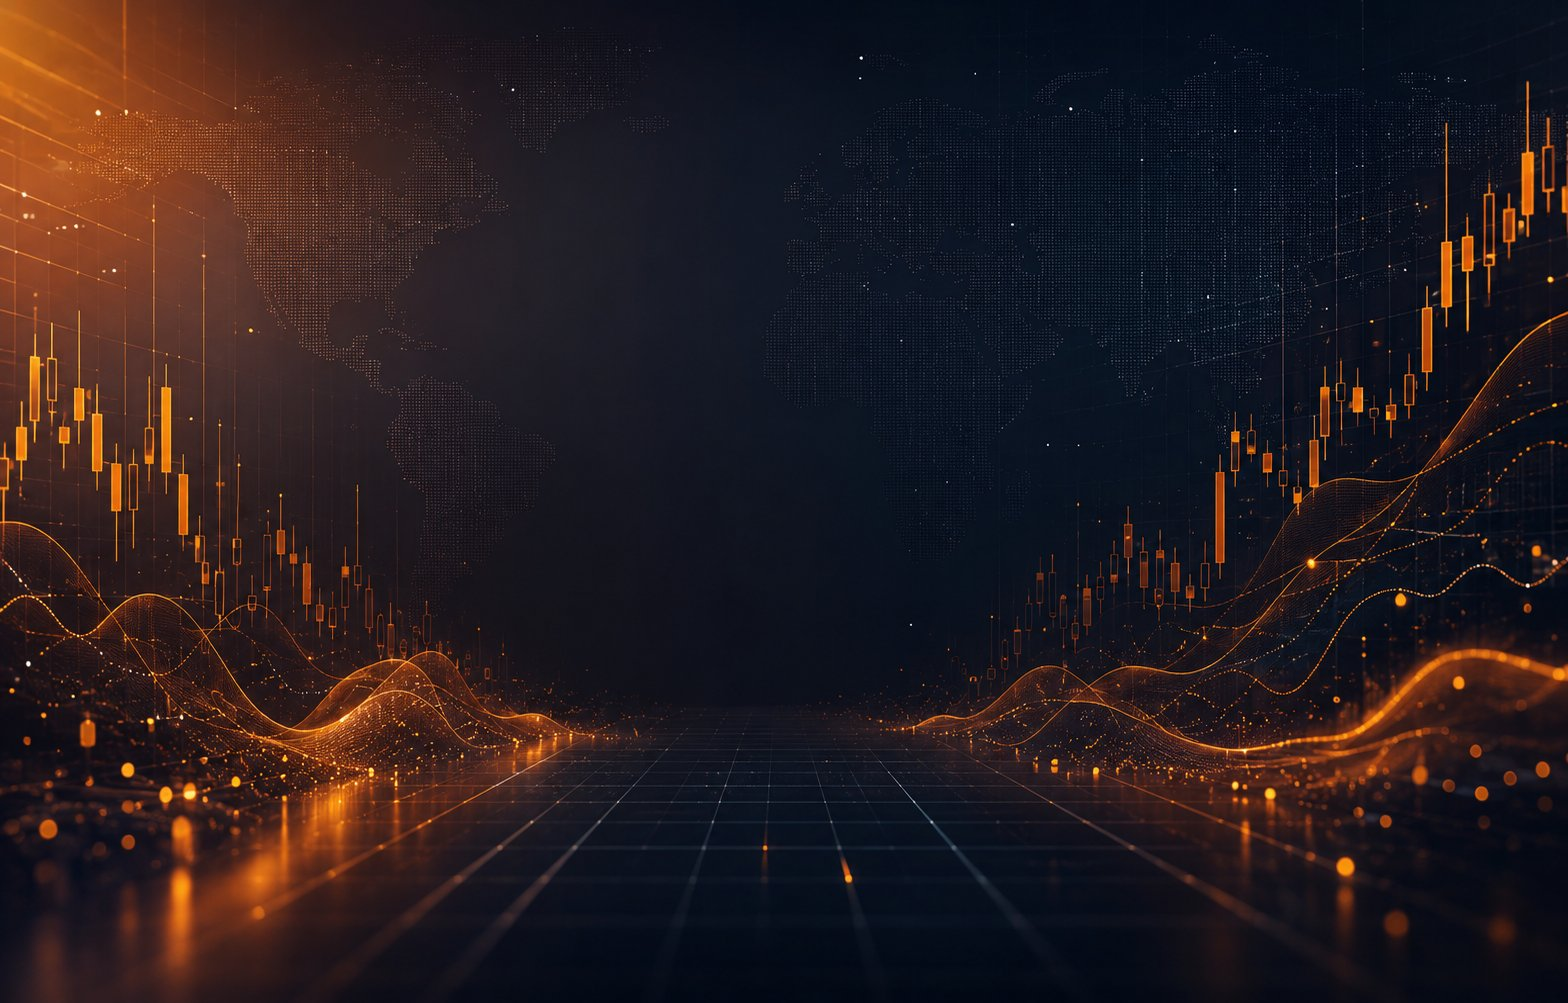
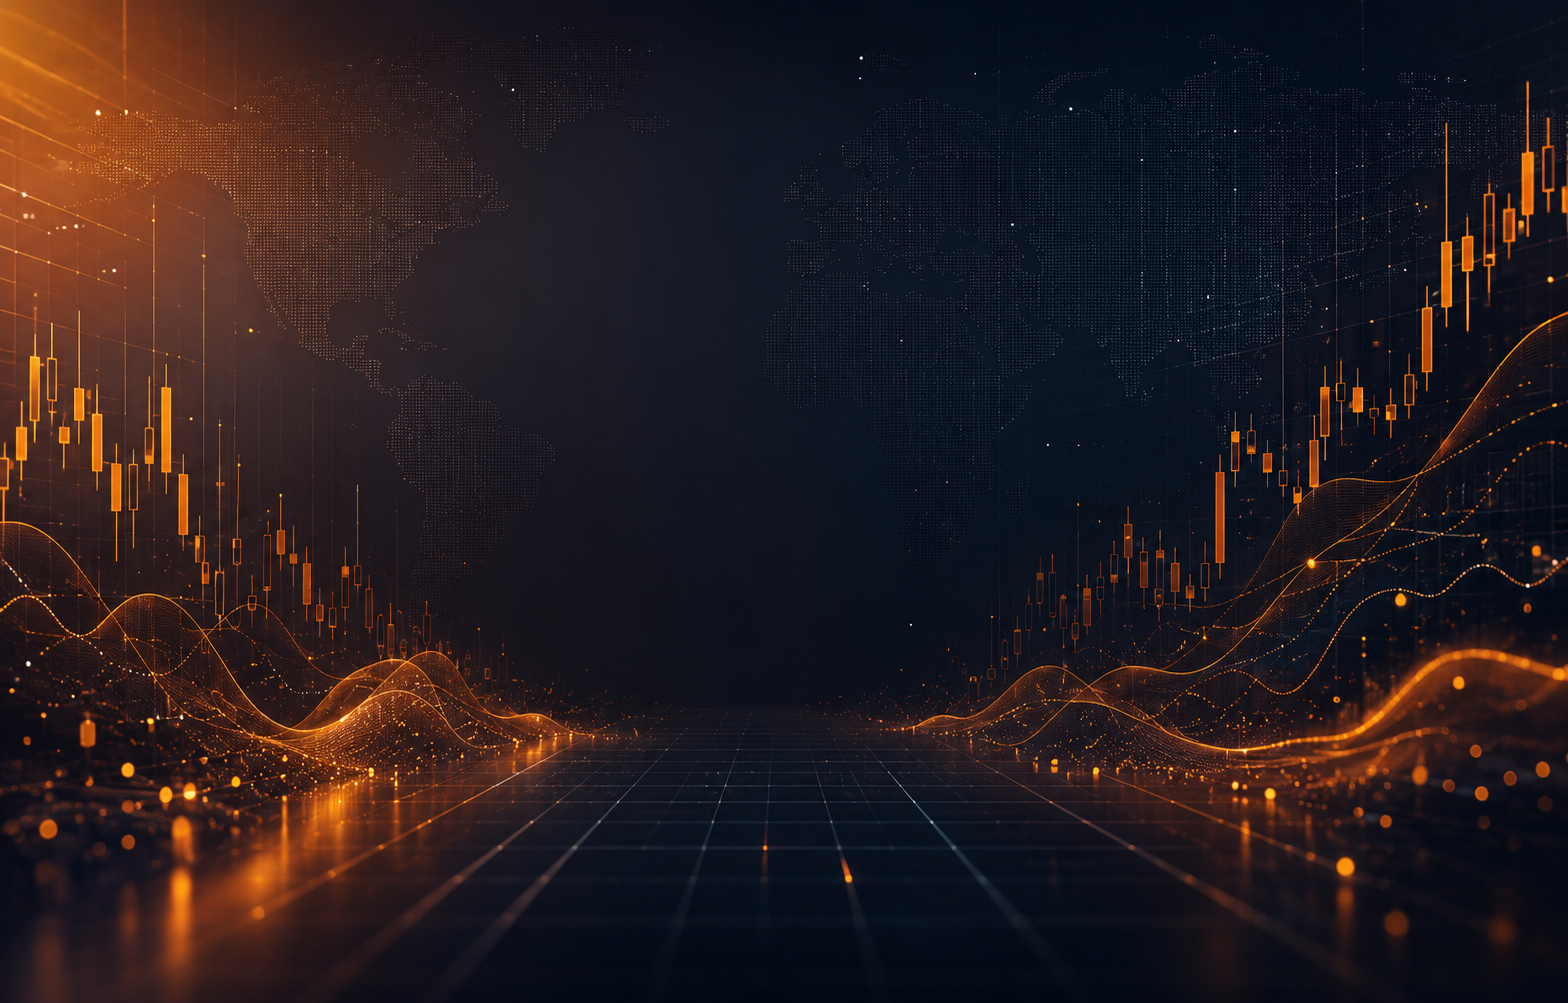
feat: branding navbar + hero bg

diff --git a/app/terminal/page.tsx b/app/terminal/page.tsx
@@ -11,9 +11,9 @@ const MODULES = [
     desc: 'CPI · NFP · FOMC · ECB · GDP · PMI · Actualités macro en temps réel',
     detail: 'Countdown live, impact ★★★, news feed institutionnel, scénarios bull/bear',
     color: '#ef4444',
-    glow: 'rgba(239,68,68,.2)',
-    border: 'rgba(239,68,68,.25)',
-    bg: 'rgba(239,68,68,.05)',
+    glow: 'rgba(239,68,68,.25)',
+    border: 'rgba(239,68,68,.3)',
+    bg: 'rgba(239,68,68,.07)',
     stats: [
       { label: 'This week', value: '12 events' },
       { label: 'HIGH impact', value: '6' },
@@ -28,9 +28,9 @@ const MODULES = [
     desc: 'Futures de taux · Courbe forward · OIS · Probabilités de hike/cut',
     detail: 'Pricing du marché sur les prochaines réunions, courbe des taux implicites',
     color: '#38bdf8',
-    glow: 'rgba(56,189,248,.2)',
-    border: 'rgba(56,189,248,.25)',
-    bg: 'rgba(56,189,248,.05)',
+    glow: 'rgba(56,189,248,.25)',
+    border: 'rgba(56,189,248,.3)',
+    bg: 'rgba(56,189,248,.07)',
     stats: [
       { label: 'Fed Jun', value: 'Hold 92%' },
       { label: 'BCE Jul', value: '-25bp 68%' },
@@ -45,9 +45,9 @@ const MODULES = [
     desc: 'Saisonnalité historique · Sentiment retail · COT · Biais directionnel',
     detail: 'Patterns 5/10/20 ans, positionnement retail vs institutionnel, biais mensuel',
     color: '#a855f7',
-    glow: 'rgba(168,85,247,.2)',
-    border: 'rgba(168,85,247,.25)',
-    bg: 'rgba(168,85,247,.05)',
+    glow: 'rgba(168,85,247,.25)',
+    border: 'rgba(168,85,247,.3)',
+    bg: 'rgba(168,85,247,.07)',
     stats: [
       { label: 'EUR/USD', value: '+63% haussier' },
       { label: 'Retail', value: '66% long' },
@@ -65,75 +65,161 @@ function DashboardHome({ onEnter }: { onEnter: (tab: TabId) => void }) {
       background: '#080b10',
       display: 'flex',
       flexDirection: 'column',
-      alignItems: 'center',
-      justifyContent: 'center',
       fontFamily: "'Inter', -apple-system, sans-serif",
-      padding: '40px 24px',
       position: 'relative',
       overflow: 'hidden',
     }}>
-      <div style={{ position:'absolute', width:600, height:600, borderRadius:'50%', background:'rgba(240,180,41,.03)', filter:'blur(120px)', top:'30%', left:'50%', transform:'translate(-50%,-50%)', pointerEvents:'none' }} />
-      <div style={{ position:'absolute', width:400, height:400, borderRadius:'50%', background:'rgba(239,68,68,.02)', filter:'blur(100px)', bottom:'10%', right:'10%', pointerEvents:'none' }} />
-      <div style={{ position:'absolute', width:300, height:300, borderRadius:'50%', background:'rgba(168,85,247,.02)', filter:'blur(80px)', bottom:'20%', left:'5%', pointerEvents:'none' }} />
+      {/* Image de fond */}
+      <div style={{
+        position: 'absolute',
+        inset: 0,
+        backgroundImage: 'url(/hero-bg.png)',
+        backgroundSize: 'cover',
+        backgroundPosition: 'center',
+        opacity: 0.35,
+        zIndex: 0,
+      }} />
+      {/* Overlay gradient */}
+      <div style={{
+        position: 'absolute',
+        inset: 0,
+        background: 'linear-gradient(to bottom, rgba(8,11,16,.7) 0%, rgba(8,11,16,.4) 40%, rgba(8,11,16,.85) 100%)',
+        zIndex: 1,
+      }} />
 
-      <div style={{ textAlign:'center', marginBottom:56, position:'relative', zIndex:1 }}>
-        <div style={{ display:'inline-flex', alignItems:'center', gap:12, marginBottom:20 }}>
-          <div style={{ width:44, height:44, background:'linear-gradient(135deg,#f0b429,#d4780a)', borderRadius:10, display:'flex', alignItems:'center', justifyContent:'center', fontSize:20, fontWeight:800, color:'#000', boxShadow:'0 4px 24px rgba(240,180,41,.35)' }}>N</div>
-          <span style={{ fontSize:26, fontWeight:800, letterSpacing:'-0.8px', color:'#f0f4f8' }}>Nexterm</span>
+      {/* NAVBAR */}
+      <nav style={{
+        position: 'relative',
+        zIndex: 10,
+        display: 'flex',
+        alignItems: 'center',
+        justifyContent: 'space-between',
+        padding: '18px 32px',
+        borderBottom: '0.5px solid rgba(255,255,255,.08)',
+        backdropFilter: 'blur(12px)',
+        background: 'rgba(8,11,16,.5)',
+      }}>
+        {/* Logo / Home */}
+        <div style={{ display:'flex', alignItems:'center', gap:10, cursor:'pointer' }}>
+          <div style={{ width:36, height:36, background:'linear-gradient(135deg,#f0b429,#d4780a)', borderRadius:8, display:'flex', alignItems:'center', justifyContent:'center', fontSize:16, fontWeight:800, color:'#000', boxShadow:'0 4px 16px rgba(240,180,41,.4)' }}>N</div>
+          <span style={{ fontSize:18, fontWeight:800, letterSpacing:'-0.5px', color:'#f0f4f8' }}>Nexterm</span>
+          <span style={{ fontSize:10, color:'#3d5060', marginLeft:4, letterSpacing:'0.5px' }}>INSTITUTIONAL FX</span>
         </div>
-        <p style={{ fontSize:13, color:'#4a5e72', letterSpacing:'0.3px' }}>Institutional FX Terminal — Select a module to continue</p>
-      </div>
 
-      <div style={{ display:'grid', gridTemplateColumns:'repeat(3,1fr)', gap:20, maxWidth:960, width:'100%', position:'relative', zIndex:1 }}>
-        {MODULES.map(m => {
-          const isHovered = hovered === m.id
-          return (
-            <div
-              key={m.id}
-              onClick={() => onEnter(m.id)}
-              onMouseEnter={() => setHovered(m.id)}
-              onMouseLeave={() => setHovered(null)}
-              style={{
-                padding: '28px 24px',
-                borderRadius: 14,
-                background: isHovered ? m.bg : 'rgba(255,255,255,.03)',
-                border: `1px solid ${isHovered ? m.border : 'rgba(255,255,255,.07)'}`,
-                cursor: 'pointer',
-                transition: 'all 200ms ease',
-                transform: isHovered ? 'translateY(-4px)' : 'none',
-                boxShadow: isHovered ? `0 12px 40px ${m.glow}` : '0 2px 12px rgba(0,0,0,.3)',
-                display: 'flex',
-                flexDirection: 'column',
-                gap: 0,
-              }}
-            >
-              <div style={{ display:'flex', alignItems:'flex-start', justifyContent:'space-between', marginBottom:16 }}>
-                <div style={{ fontSize:32, lineHeight:1 }}>{m.icon}</div>
-                <div style={{ width:8, height:8, borderRadius:'50%', background:m.color, boxShadow:`0 0 8px ${m.color}` }} />
+        {/* Bouton connexion */}
+        <div style={{ display:'flex', alignItems:'center', gap:12 }}>
+          <button style={{
+            padding: '8px 18px',
+            borderRadius: 7,
+            fontSize: 12,
+            fontWeight: 600,
+            color: '#c8d6e5',
+            background: 'transparent',
+            border: '0.5px solid rgba(255,255,255,.15)',
+            cursor: 'pointer',
+            letterSpacing: '0.2px',
+            transition: 'all 150ms',
+          }}
+            onMouseEnter={e => { e.currentTarget.style.background='rgba(255,255,255,.07)'; e.currentTarget.style.borderColor='rgba(255,255,255,.25)' }}
+            onMouseLeave={e => { e.currentTarget.style.background='transparent'; e.currentTarget.style.borderColor='rgba(255,255,255,.15)' }}
+          >
+            Se connecter
+          </button>
+          <button style={{
+            padding: '8px 18px',
+            borderRadius: 7,
+            fontSize: 12,
+            fontWeight: 700,
+            color: '#000',
+            background: 'linear-gradient(135deg,#f0b429,#d4780a)',
+            border: 'none',
+            cursor: 'pointer',
+            letterSpacing: '0.2px',
+            boxShadow: '0 4px 16px rgba(240,180,41,.35)',
+            transition: 'all 150ms',
+          }}
+            onMouseEnter={e => { e.currentTarget.style.opacity='0.9' }}
+            onMouseLeave={e => { e.currentTarget.style.opacity='1' }}
+          >
+            Commencer
+          </button>
+        </div>
+      </nav>
+
+      {/* CONTENU PRINCIPAL */}
+      <div style={{
+        flex: 1,
+        display: 'flex',
+        flexDirection: 'column',
+        alignItems: 'center',
+        justifyContent: 'center',
+        padding: '40px 24px',
+        position: 'relative',
+        zIndex: 2,
+      }}>
+        {/* Tagline */}
+        <div style={{ textAlign:'center', marginBottom:52 }}>
+          <p style={{ fontSize:12, color:'#f0b429', fontWeight:600, letterSpacing:'2px', textTransform:'uppercase', marginBottom:14 }}>Institutional FX Terminal</p>
+          <h1 style={{ fontSize:38, fontWeight:800, color:'#f0f4f8', letterSpacing:'-1px', lineHeight:1.15, marginBottom:12 }}>
+            Analyse macro de niveau<br />institutionnel
+          </h1>
+          <p style={{ fontSize:14, color:'#4a5e72', maxWidth:420, margin:'0 auto' }}>
+            Calendrier, taux futurs, saisonnalité — tout ce qu'un trader institutionnel surveille, en un seul endroit.
+          </p>
+        </div>
+
+        {/* 3 cartes */}
+        <div style={{ display:'grid', gridTemplateColumns:'repeat(3,1fr)', gap:20, maxWidth:960, width:'100%' }}>
+          {MODULES.map(m => {
+            const isHovered = hovered === m.id
+            return (
+              <div
+                key={m.id}
+                onClick={() => onEnter(m.id)}
+                onMouseEnter={() => setHovered(m.id)}
+                onMouseLeave={() => setHovered(null)}
+                style={{
+                  padding: '28px 24px',
+                  borderRadius: 14,
+                  background: isHovered ? m.bg : 'rgba(8,11,16,.6)',
+                  border: `1px solid ${isHovered ? m.border : 'rgba(255,255,255,.09)'}`,
+                  backdropFilter: 'blur(16px)',
+                  cursor: 'pointer',
+                  transition: 'all 200ms ease',
+                  transform: isHovered ? 'translateY(-4px)' : 'none',
+                  boxShadow: isHovered ? `0 12px 40px ${m.glow}` : '0 2px 12px rgba(0,0,0,.4)',
+                  display: 'flex',
+                  flexDirection: 'column',
+                }}
+              >
+                <div style={{ display:'flex', alignItems:'flex-start', justifyContent:'space-between', marginBottom:16 }}>
+                  <div style={{ fontSize:32, lineHeight:1 }}>{m.icon}</div>
+                  <div style={{ width:8, height:8, borderRadius:'50%', background:m.color, boxShadow:`0 0 8px ${m.color}` }} />
+                </div>
+
+                <div style={{ fontSize:17, fontWeight:700, color:'#f0f4f8', letterSpacing:'-0.3px', marginBottom:4 }}>{m.title}</div>
+                <div style={{ fontSize:11, color:m.color, fontWeight:600, marginBottom:12 }}>{m.subtitle}</div>
+                <div style={{ fontSize:11, color:'#5a7080', marginBottom:16, lineHeight:1.6 }}>{m.desc}</div>
+
+                <div style={{ display:'grid', gridTemplateColumns:'1fr 1fr 1fr', gap:8, marginBottom:20 }}>
+                  {m.stats.map(s => (
+                    <div key={s.label} style={{ padding:'8px 6px', borderRadius:6, background:'rgba(255,255,255,.04)', border:'0.5px solid rgba(255,255,255,.07)', textAlign:'center' }}>
+                      <div style={{ fontSize:8, color:'#3d5060', letterSpacing:'0.4px', marginBottom:3, textTransform:'uppercase' }}>{s.label}</div>
+                      <div style={{ fontSize:11, fontWeight:700, color:'#c8d6e5', fontFamily:'IBM Plex Mono, monospace' }}>{s.value}</div>
+                    </div>
+                  ))}
+                </div>
+
+                <div style={{ fontSize:10, color:'#3d5060', lineHeight:1.5, marginBottom:20, minHeight:32 }}>{m.detail}</div>
+
+                <div style={{ display:'flex', alignItems:'center', justifyContent:'space-between', paddingTop:16, borderTop:`0.5px solid ${isHovered ? m.border : 'rgba(255,255,255,.06)'}`, marginTop:'auto' }}>
+                  <span style={{ fontSize:11, fontWeight:600, color:isHovered ? m.color : '#5a7080', transition:'color 200ms' }}>Open module</span>
+                  <span style={{ fontSize:14, color:isHovered ? m.color : '#3d5060', transition:'all 200ms', transform: isHovered ? 'translateX(4px)' : 'none' }}>→</span>
+                </div>
               </div>
-
-              <div style={{ fontSize:17, fontWeight:700, color:'#f0f4f8', letterSpacing:'-0.3px', marginBottom:4 }}>{m.title}</div>
-              <div style={{ fontSize:11, color:m.color, fontWeight:600, marginBottom:12, letterSpacing:'0.2px' }}>{m.subtitle}</div>
-              <div style={{ fontSize:11, color:'#5a7080', marginBottom:16, lineHeight:1.6 }}>{m.desc}</div>
-
-              <div style={{ display:'grid', gridTemplateColumns:'1fr 1fr 1fr', gap:8, marginBottom:20 }}>
-                {m.stats.map(s => (
-                  <div key={s.label} style={{ padding:'8px 6px', borderRadius:6, background:'rgba(255,255,255,.03)', border:'0.5px solid rgba(255,255,255,.06)', textAlign:'center' }}>
-                    <div style={{ fontSize:8, color:'#3d5060', letterSpacing:'0.4px', marginBottom:3, textTransform:'uppercase' }}>{s.label}</div>
-                    <div style={{ fontSize:11, fontWeight:700, color:'#c8d6e5', fontFamily:'IBM Plex Mono, monospace' }}>{s.value}</div>
-                  </div>
-                ))}
-              </div>
-
-              <div style={{ fontSize:10, color:'#3d5060', lineHeight:1.5, marginBottom:20, minHeight:32 }}>{m.detail}</div>
-
-              <div style={{ display:'flex', alignItems:'center', justifyContent:'space-between', paddingTop:16, borderTop:`0.5px solid ${isHovered ? m.border : 'rgba(255,255,255,.05)'}`, marginTop:'auto' }}>
-                <span style={{ fontSize:11, fontWeight:600, color:isHovered ? m.color : '#5a7080', transition:'color 200ms' }}>Open module</span>
-                <span style={{ fontSize:14, color:isHovered ? m.color : '#3d5060', transition:'all 200ms', transform: isHovered ? 'translateX(4px)' : 'none' }}>→</span>
-              </div>
-            </div>
-          )
-        })}
+            )
+          })}
+        </div>
       </div>
     </div>
   )
@@ -144,8 +230,28 @@ export default function TerminalPage() {
 
   if (activeModule) {
     return (
-      <div style={{ minHeight:'100vh', background:'#080b10', display:'flex', alignItems:'center', justifyContent:'center' }}>
-        <div style={{ color:'#4a5e72', fontSize:13 }}>— à coder —</div>
+      <div style={{ minHeight:'100vh', background:'#080b10', display:'flex', flexDirection:'column' }}>
+        {/* Navbar avec Home */}
+        <nav style={{
+          display: 'flex',
+          alignItems: 'center',
+          justifyContent: 'space-between',
+          padding: '18px 32px',
+          borderBottom: '0.5px solid rgba(255,255,255,.08)',
+          background: 'rgba(8,11,16,.95)',
+        }}>
+          <div onClick={() => setActiveModule(null)} style={{ display:'flex', alignItems:'center', gap:10, cursor:'pointer' }}>
+            <div style={{ width:36, height:36, background:'linear-gradient(135deg,#f0b429,#d4780a)', borderRadius:8, display:'flex', alignItems:'center', justifyContent:'center', fontSize:16, fontWeight:800, color:'#000' }}>N</div>
+            <span style={{ fontSize:18, fontWeight:800, color:'#f0f4f8' }}>Nexterm</span>
+            <span style={{ fontSize:10, color:'#f0b429', marginLeft:8 }}>← Home</span>
+          </div>
+          <button style={{ padding:'8px 18px', borderRadius:7, fontSize:12, fontWeight:700, color:'#000', background:'linear-gradient(135deg,#f0b429,#d4780a)', border:'none', cursor:'pointer' }}>
+            Se connecter
+          </button>
+        </nav>
+        <div style={{ flex:1, display:'flex', alignItems:'center', justifyContent:'center' }}>
+          <div style={{ color:'#4a5e72', fontSize:13 }}>— module à coder —</div>
+        </div>
       </div>
     )
   }
